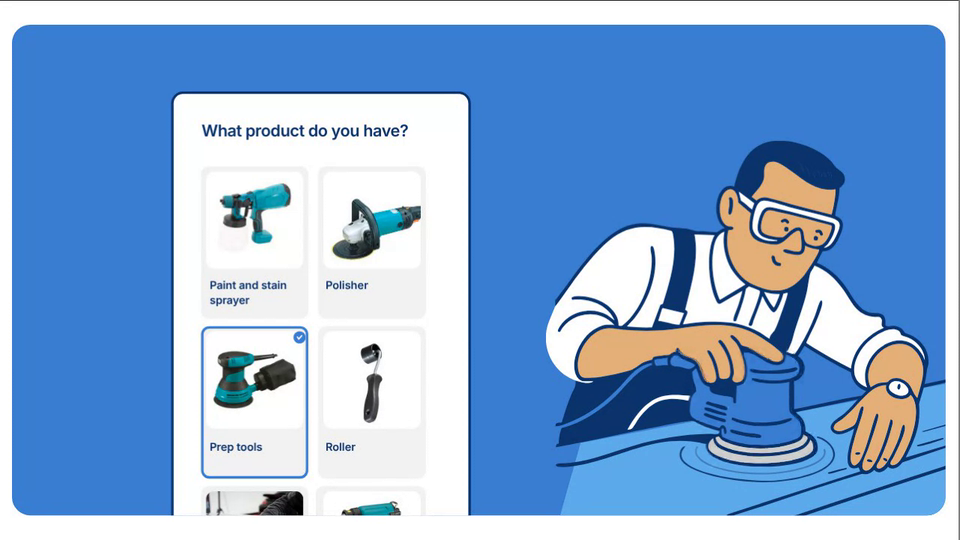
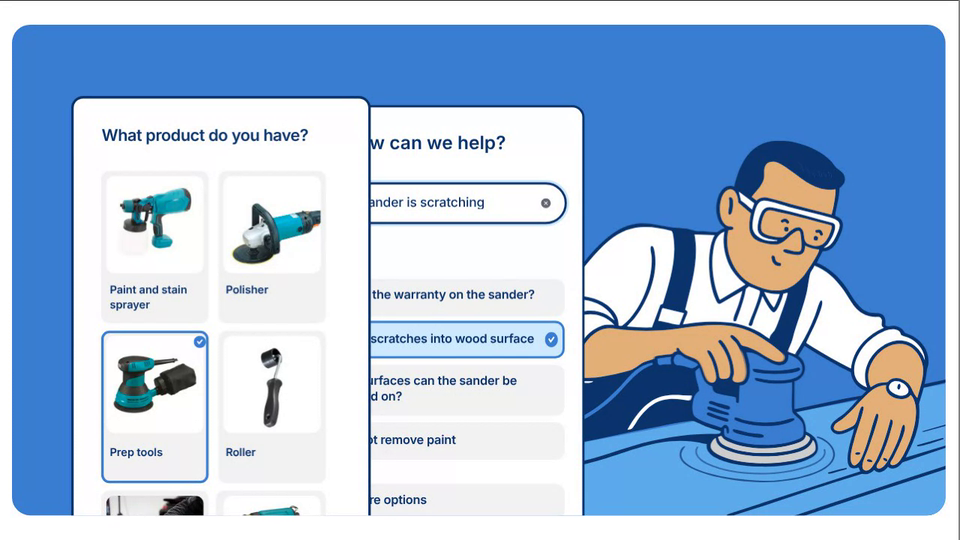
Sander Troubleshoot: keep the help screen visible behind the product screen (#377)
* Add Sander Troubleshoot Flow and Variant Try-On Engine (Mavenoid-branded illustration looks)

Claude-Session: https://claude.ai/code/session_01AHeBdyNeaELCh2LXZzRH9f

* Re-record clips so the first frame is the starting state

Claude-Session: https://claude.ai/code/session_01AHeBdyNeaELCh2LXZzRH9f

* Merge flow and try-on engine into one page, recolouring the Sander Troubleshoot worker

Claude-Session: https://claude.ai/code/session_01AHeBdyNeaELCh2LXZzRH9f

* Merge the sander flow and restyle studio into Sander Troubleshoot as one page

Claude-Session: https://claude.ai/code/session_01AHeBdyNeaELCh2LXZzRH9f

* Sander Troubleshoot: back to just the animation

Claude-Session: https://claude.ai/code/session_01AHeBdyNeaELCh2LXZzRH9f

* Sander Troubleshoot: fix the worker's eyes (pupils were sized to nothing)

Claude-Session: https://claude.ai/code/session_01AHeBdyNeaELCh2LXZzRH9f

* Sander Troubleshoot: smaller pupils

Claude-Session: https://claude.ai/code/session_01AHeBdyNeaELCh2LXZzRH9f

* Sander Troubleshoot: product screen comes forward, Prep tools pressed, 3s hold; worker still, sander wobbles, ripples fade

Claude-Session: https://claude.ai/code/session_01AHeBdyNeaELCh2LXZzRH9f

* Sander Troubleshoot: keep the How can we help screen visible behind the product screen

Claude-Session: https://claude.ai/code/session_01AHeBdyNeaELCh2LXZzRH9f

---------

Changed region(s): [[0.0625, 0.1481, 0.625, 0.9778], [0.6562, 0.6519, 0.8438, 0.8593]]

diff --git a/sander-troubleshoot/index.html b/sander-troubleshoot/index.html
@@ -179,7 +179,7 @@ function render(tt){
   /* picker card + tiles */
   var fwd=pre?1:eio(clamp((t-FWD)/.8));
   enter($('bc'),1.3,.6,-14,6,.97);
-  $('bc').style.transform+=' translate('+(40*fwd)+'px,'+(-26*fwd)+'px) scale('+(1+.1*fwd)+')';
+  $('bc').style.transform+=' translate('+(-4*fwd)+'px,'+(-24*fwd)+'px) scale('+(1+.1*fwd)+')';
   $('bc').style.zIndex=fwd>.4?3:0;
   for(i=0;i<tiles.length;i++){var tl=tiles[i];
     if(tl.id==='prep'){var a=pre?1:clamp((t-1.6)/.4),pr=Math.sin(Math.PI*clamp((t-PRESS)/.3));tl.style.opacity=pre?1:a;tl.style.transform=tf(0,3*(1-eio(a)),(.9+.1*eob(a))*(1-.07*pr),0);}
@@ -194,8 +194,7 @@ function render(tt){
   $('r1').style.opacity=.25+.75*(.5+.5*Math.sin(rp));$('r2').style.opacity=.25+.75*(.5+.5*Math.sin(rp+Math.PI));
   /* front card */
   enter($('fc'),2.2,.6,0,10,.96);
-  $('fc').style.opacity=$('fc').style.opacity*(1-fwd);
-  $('fc').style.transform+=' translate('+(12*fwd)+'px,'+(-4*fwd)+'px) scale('+(1-.04*fwd)+')';
+  $('fc').style.transform+=' scale('+(1-.03*fwd)+')';
   /* sparkle twinkle */
   var tw=pre?0:pulse(2.8,.7);
   $('spk').style.transform='rotate('+(tw*50)+'deg) scale('+(1+.35*tw)+')';
